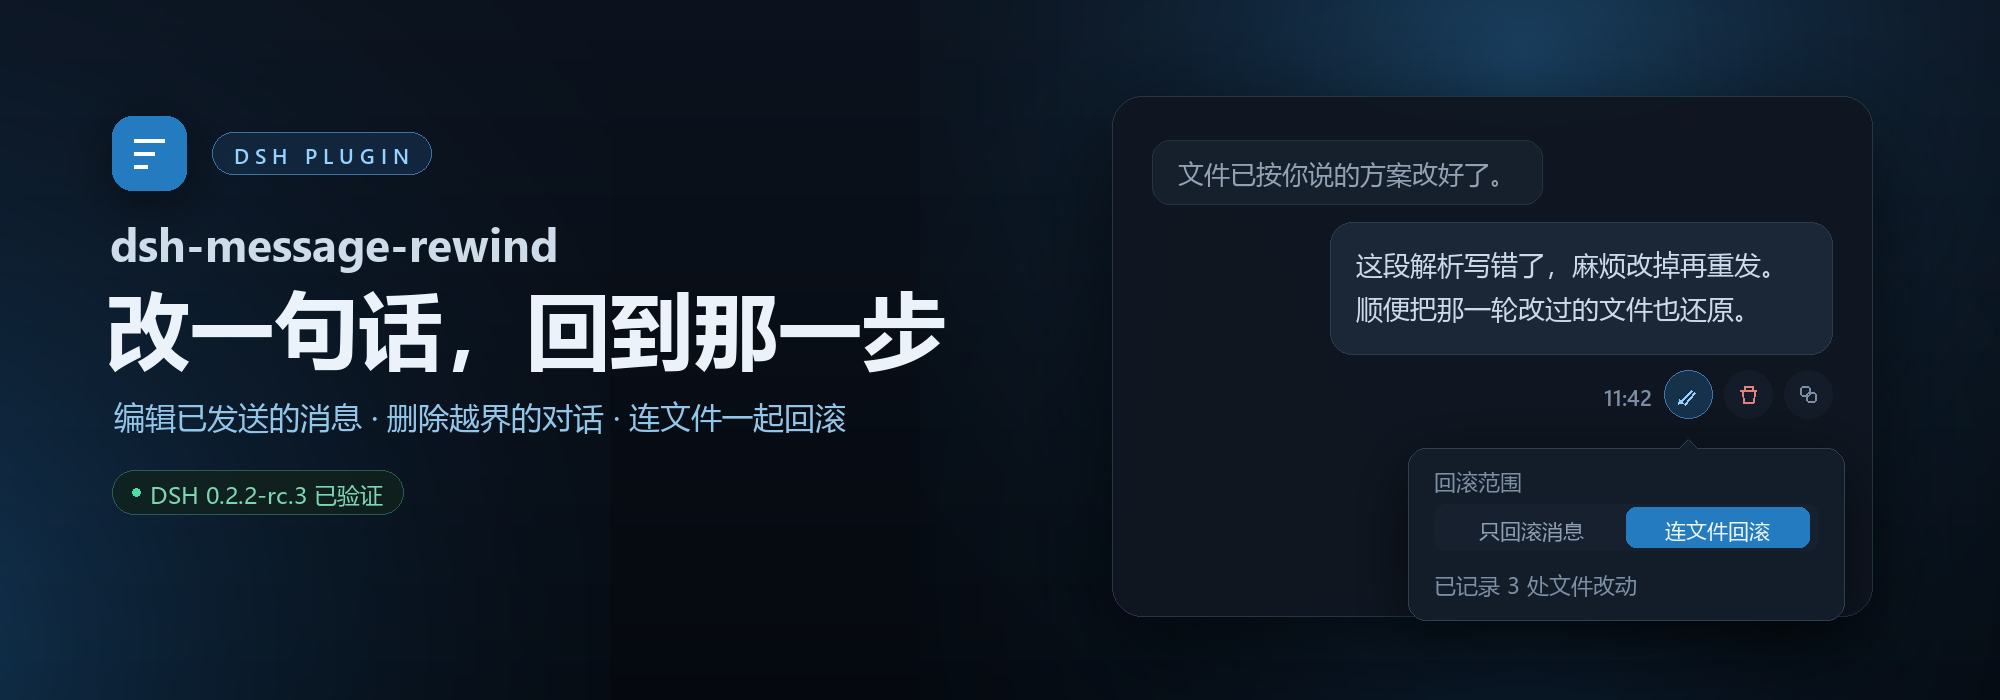
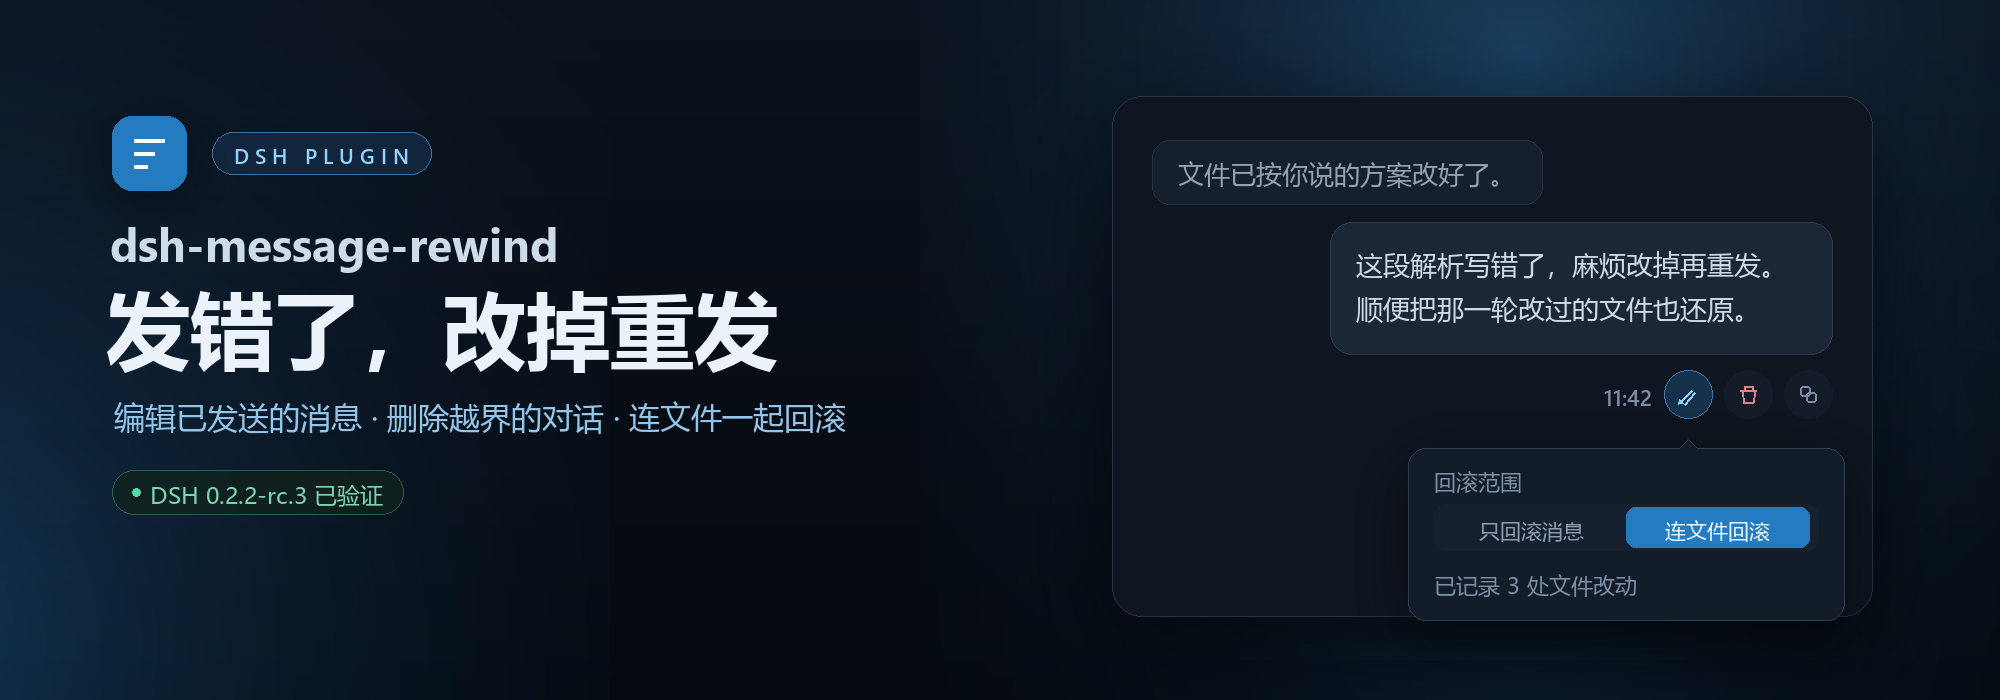
docs: say the promise plainly on the cover
The cover headline was a forced parallelism whose second half named nothing concrete. Lead with the action instead: 发错了，改掉重发, and reuse the popover's own wording (保存并重发 / Save and resend) so the cover and the UI name the same thing.

Changed region(s): [[0.031, 0.42, 0.496, 0.54]]

diff --git a/README.en.md b/README.en.md
@@ -1,12 +1,12 @@
 <p align="center">
-  <img src="https://raw.githubusercontent.com/xCube007/dsh-message-rewind/main/img/cover.png" alt="dsh-message-rewind: edit what you said, rewind to that point — edit a sent message, delete everything after it, or roll the recorded file changes back" width="100%">
+  <img src="https://raw.githubusercontent.com/xCube007/dsh-message-rewind/main/img/cover.png" alt="dsh-message-rewind: sent it wrong? fix it and resend — edit a sent message, delete everything after it, or roll the recorded file changes back" width="100%">
 </p>
 
 <div align="center">
 
 # dsh-message-rewind
 
-**Edit one line, rewind to that line**
+**Sent it wrong? Fix it and resend.**
 
 [简体中文](README.md) · [English](README.en.md)
 

diff --git a/README.md b/README.md
@@ -1,12 +1,12 @@
 <p align="center">
-  <img src="https://raw.githubusercontent.com/xCube007/dsh-message-rewind/main/img/cover.png" alt="dsh-message-rewind：改一句话，回到那一步 —— 编辑已发送的消息、删除越界的对话、连文件一起回滚" width="100%">
+  <img src="https://raw.githubusercontent.com/xCube007/dsh-message-rewind/main/img/cover.png" alt="dsh-message-rewind：发错了，改掉重发 —— 编辑已发送的消息、删除越界的对话、连文件一起回滚" width="100%">
 </p>
 
 <div align="center">
 
 # dsh-message-rewind
 
-**改一句话，回到那一步**
+**发错了，改掉重发**
 
 [简体中文](README.md) · [English](README.en.md)
 
